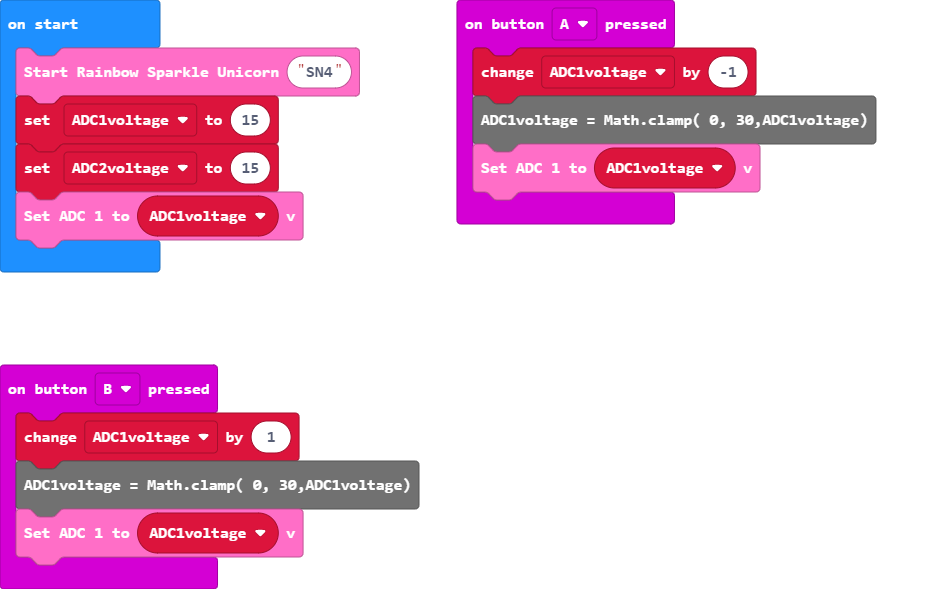
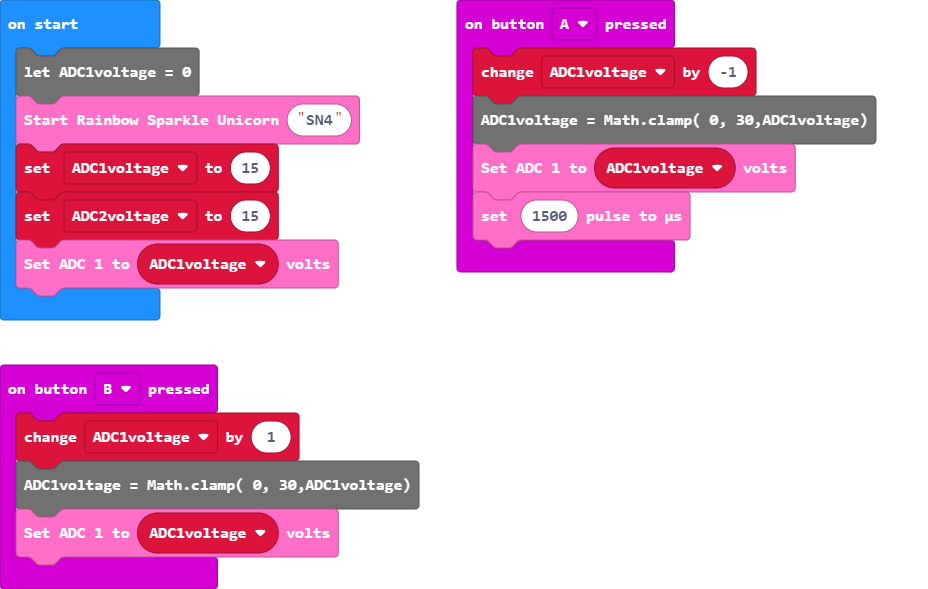
Update main.blocks, main.ts, custom.ts

diff --git a/custom.ts b/custom.ts
@@ -4,6 +4,17 @@
  * Read more at https://makecode.microbit.org/blocks/custom
  */
 
+enum Servo {
+    //% block="Servo 0"
+    S0,
+    //% block="Servo 1"
+    S1,
+    //% block="Servo 2"
+    S2,
+    //% block="Servo 3"
+    S3
+}
+
 const enum TouchSensor {
     T1 = 1,
     T2 = 2,
@@ -160,21 +171,16 @@ namespace RainbowSparkleUnicorn {
         serial.writeLine(message)
     }
 
-
-           //% weight=10 help=servos/set-pulse
-        //% blockId=servoservosetpulse block="set %servo pulse to %micros μs"
+        //% block="set %servo pulse to %micros μs"
         //% micros.min=500 micros.max=2500
         //% micros.defl=1500
-        //% servo.fieldEditor="gridpicker"
-        //% servo.fieldOptions.width=220
-        //% servo.fieldOptions.columns=2
-        //% parts=microservo trackArgs=0
-        //% group="Configuration"
-        //% blockGap=8
-        setPulse(micros: number) {
+     export function   setPulse(servo: Servo, micros: number) {
             micros = micros | 0;
             micros = Math.clamp(500, 2500, micros);
             //this.internalSetPulse(micros);
         }
+
+
+        
 
 }

diff --git a/main.ts b/main.ts
@@ -2,6 +2,7 @@ input.onButtonPressed(Button.A, function () {
     ADC1voltage += -1
     ADC1voltage = Math.clamp( 0, 30,ADC1voltage)
 RainbowSparkleUnicorn.ADC1(ADC1voltage)
+    RainbowSparkleUnicorn.setPulse(1500)
 })
 input.onButtonPressed(Button.B, function () {
     ADC1voltage += 1
